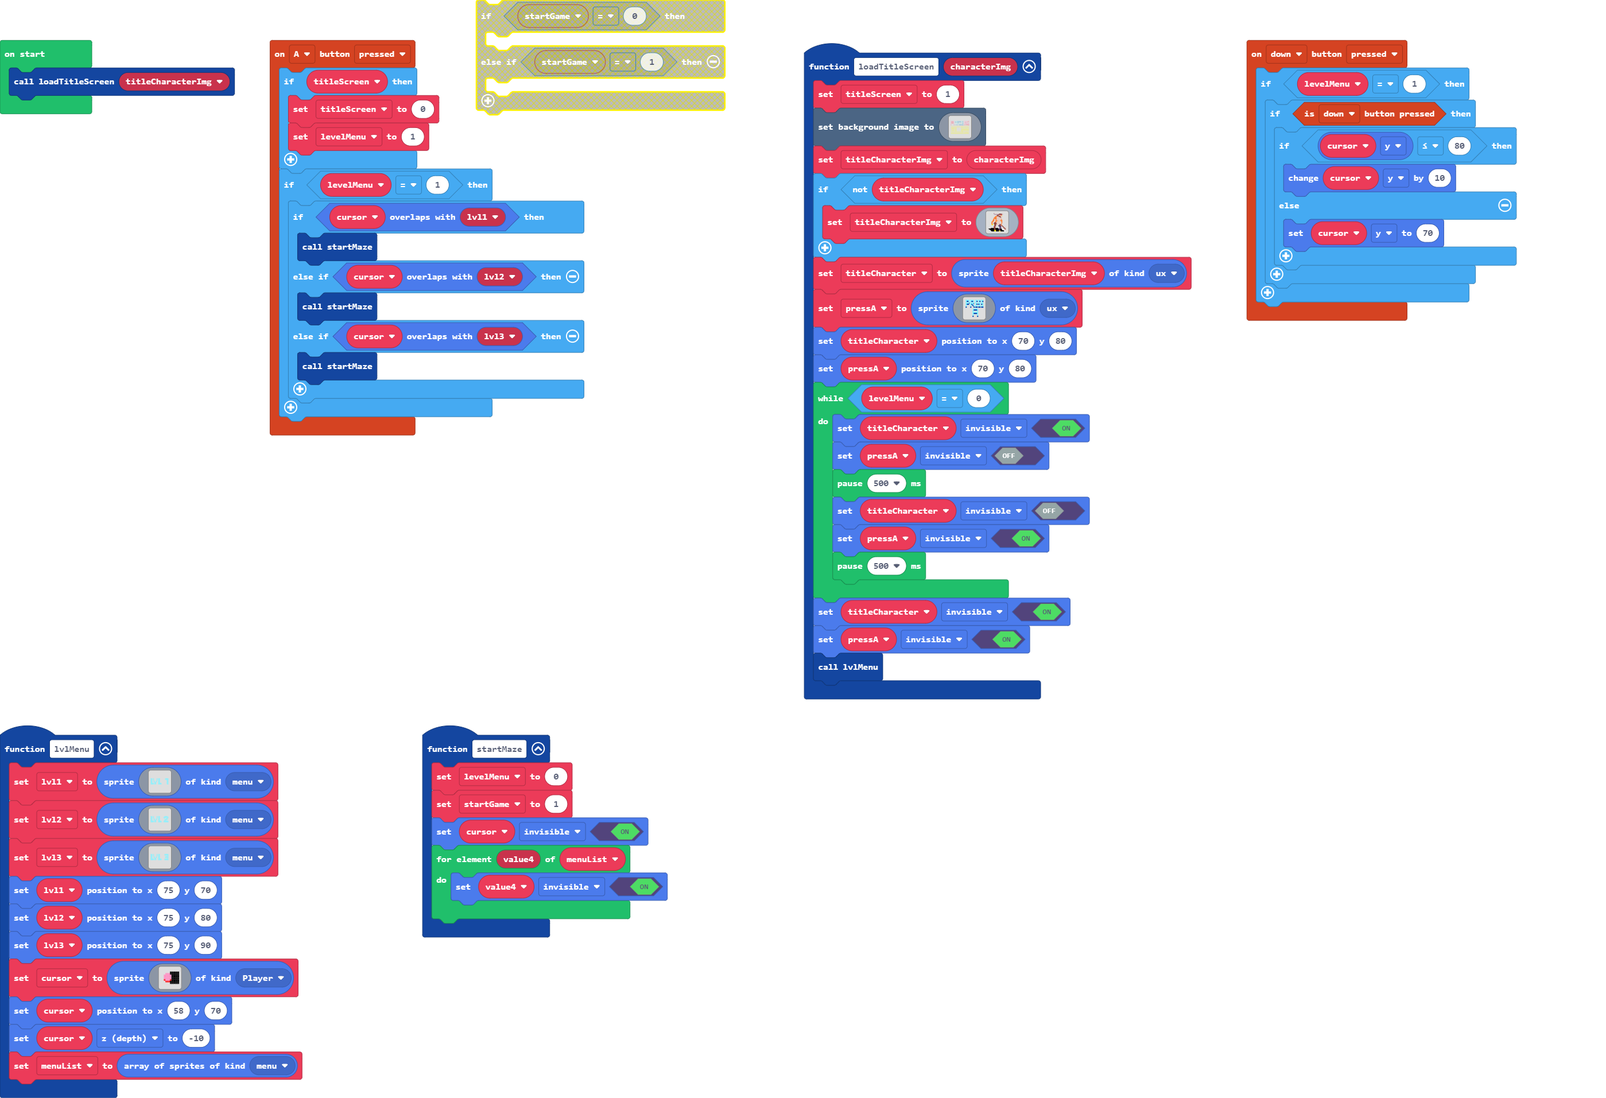
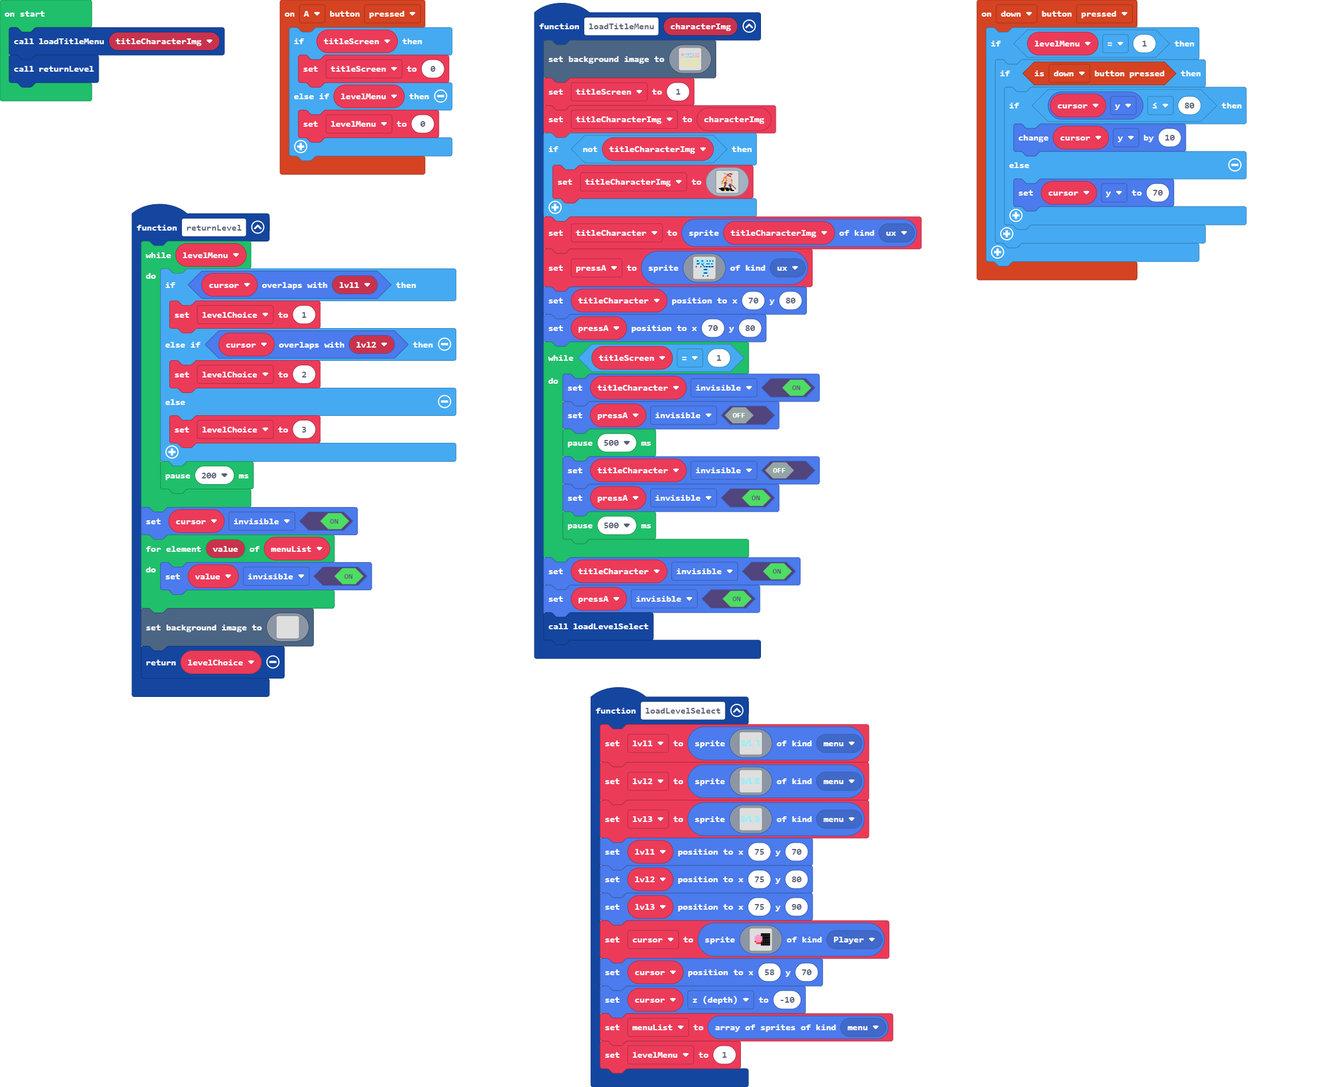
Standardized blocks for extension use

diff --git a/main.ts b/main.ts
@@ -18,8 +18,153 @@ namespace SpriteKind {
     export const menu = SpriteKind.create()
     export const boss = SpriteKind.create()
 }
-function loadTitleScreen (characterImg: Image) {
-    titleScreen = 1
+function returnLevel () {
+    while (levelMenu) {
+        if (cursor.overlapsWith(lvl1)) {
+            levelChoice = 1
+        } else if (cursor.overlapsWith(lvl2)) {
+            levelChoice = 2
+        } else {
+            levelChoice = 3
+        }
+        pause(200)
+    }
+    cursor.setFlag(SpriteFlag.Invisible, true)
+    for (let value of menuList) {
+        value.setFlag(SpriteFlag.Invisible, true)
+    }
+    scene.setBackgroundImage(img`
+        ................................................................................................................................................................
+        ................................................................................................................................................................
+        ................................................................................................................................................................
+        ................................................................................................................................................................
+        ................................................................................................................................................................
+        ................................................................................................................................................................
+        ................................................................................................................................................................
+        ................................................................................................................................................................
+        ................................................................................................................................................................
+        ................................................................................................................................................................
+        ................................................................................................................................................................
+        ................................................................................................................................................................
+        ................................................................................................................................................................
+        ................................................................................................................................................................
+        ................................................................................................................................................................
+        ................................................................................................................................................................
+        ................................................................................................................................................................
+        ................................................................................................................................................................
+        ................................................................................................................................................................
+        ................................................................................................................................................................
+        ................................................................................................................................................................
+        ................................................................................................................................................................
+        ................................................................................................................................................................
+        ................................................................................................................................................................
+        ................................................................................................................................................................
+        ................................................................................................................................................................
+        ................................................................................................................................................................
+        ................................................................................................................................................................
+        ................................................................................................................................................................
+        ................................................................................................................................................................
+        ................................................................................................................................................................
+        ................................................................................................................................................................
+        ................................................................................................................................................................
+        ................................................................................................................................................................
+        ................................................................................................................................................................
+        ................................................................................................................................................................
+        ................................................................................................................................................................
+        ................................................................................................................................................................
+        ................................................................................................................................................................
+        ................................................................................................................................................................
+        ................................................................................................................................................................
+        ................................................................................................................................................................
+        ................................................................................................................................................................
+        ................................................................................................................................................................
+        ................................................................................................................................................................
+        ................................................................................................................................................................
+        ................................................................................................................................................................
+        ................................................................................................................................................................
+        ................................................................................................................................................................
+        ................................................................................................................................................................
+        ................................................................................................................................................................
+        ................................................................................................................................................................
+        ................................................................................................................................................................
+        ................................................................................................................................................................
+        ................................................................................................................................................................
+        ................................................................................................................................................................
+        ................................................................................................................................................................
+        ................................................................................................................................................................
+        ................................................................................................................................................................
+        ................................................................................................................................................................
+        ................................................................................................................................................................
+        ................................................................................................................................................................
+        ................................................................................................................................................................
+        ................................................................................................................................................................
+        ................................................................................................................................................................
+        ................................................................................................................................................................
+        ................................................................................................................................................................
+        ................................................................................................................................................................
+        ................................................................................................................................................................
+        ................................................................................................................................................................
+        ................................................................................................................................................................
+        ................................................................................................................................................................
+        ................................................................................................................................................................
+        ................................................................................................................................................................
+        ................................................................................................................................................................
+        ................................................................................................................................................................
+        ................................................................................................................................................................
+        ................................................................................................................................................................
+        ................................................................................................................................................................
+        ................................................................................................................................................................
+        ................................................................................................................................................................
+        ................................................................................................................................................................
+        ................................................................................................................................................................
+        ................................................................................................................................................................
+        ................................................................................................................................................................
+        ................................................................................................................................................................
+        ................................................................................................................................................................
+        ................................................................................................................................................................
+        ................................................................................................................................................................
+        ................................................................................................................................................................
+        ................................................................................................................................................................
+        ................................................................................................................................................................
+        ................................................................................................................................................................
+        ................................................................................................................................................................
+        ................................................................................................................................................................
+        ................................................................................................................................................................
+        ................................................................................................................................................................
+        ................................................................................................................................................................
+        ................................................................................................................................................................
+        ................................................................................................................................................................
+        ................................................................................................................................................................
+        ................................................................................................................................................................
+        ................................................................................................................................................................
+        ................................................................................................................................................................
+        ................................................................................................................................................................
+        ................................................................................................................................................................
+        ................................................................................................................................................................
+        ................................................................................................................................................................
+        ................................................................................................................................................................
+        ................................................................................................................................................................
+        ................................................................................................................................................................
+        ................................................................................................................................................................
+        ................................................................................................................................................................
+        ................................................................................................................................................................
+        ................................................................................................................................................................
+        ................................................................................................................................................................
+        ................................................................................................................................................................
+        ................................................................................................................................................................
+        ................................................................................................................................................................
+        ................................................................................................................................................................
+        `)
+    return levelChoice
+}
+controller.A.onEvent(ControllerButtonEvent.Pressed, function () {
+    if (titleScreen) {
+        titleScreen = 0
+    } else if (levelMenu) {
+        levelMenu = 0
+    }
+})
+function loadTitleMenu (characterImg: Image) {
     scene.setBackgroundImage(img`
         ................................................................................................................................................................
         ................................................................................................................................................................
@@ -142,6 +287,7 @@ function loadTitleScreen (characterImg: Image) {
         5555555555555555555555555555555555555555555555555555555555555555555555555555555555555555555555555555555555555555555555555555555555555555555555555555555555555555
         ................................................................................................................................................................
         `)
+    titleScreen = 1
     titleCharacterImg = characterImg
     if (!(titleCharacterImg)) {
         titleCharacterImg = img`
@@ -216,7 +362,7 @@ function loadTitleScreen (characterImg: Image) {
         `, SpriteKind.ux)
     titleCharacter.setPosition(70, 80)
     pressA.setPosition(70, 80)
-    while (levelMenu == 0) {
+    while (titleScreen == 1) {
         titleCharacter.setFlag(SpriteFlag.Invisible, true)
         pressA.setFlag(SpriteFlag.Invisible, false)
         pause(500)
@@ -226,23 +372,8 @@ function loadTitleScreen (characterImg: Image) {
     }
     titleCharacter.setFlag(SpriteFlag.Invisible, true)
     pressA.setFlag(SpriteFlag.Invisible, true)
-    lvlMenu()
+    loadLevelSelect()
 }
-controller.A.onEvent(ControllerButtonEvent.Pressed, function () {
-    if (titleScreen) {
-        titleScreen = 0
-        levelMenu = 1
-    }
-    if (levelMenu == 1) {
-        if (cursor.overlapsWith(lvl1)) {
-            startMaze()
-        } else if (cursor.overlapsWith(lvl2)) {
-            startMaze()
-        } else if (cursor.overlapsWith(lvl3)) {
-            startMaze()
-        }
-    }
-})
 controller.down.onEvent(ControllerButtonEvent.Pressed, function () {
     if (levelMenu == 1) {
         if (controller.down.isPressed()) {
@@ -254,7 +385,7 @@ controller.down.onEvent(ControllerButtonEvent.Pressed, function () {
         }
     }
 })
-function lvlMenu () {
+function loadLevelSelect () {
     lvl1 = sprites.create(img`
         9 9 . 9 . . . . 9 . 9 9 . . . . . . . 9 9 9 9 . 
         9 9 . 9 . . . . 9 . 9 9 . . . . . . . 9 9 9 9 . 
@@ -301,24 +432,18 @@ function lvlMenu () {
     cursor.setPosition(58, 70)
     cursor.z = -10
     menuList = sprites.allOfKind(SpriteKind.menu)
+    levelMenu = 1
 }
-function startMaze () {
-    levelMenu = 0
-    startGame = 1
-    cursor.setFlag(SpriteFlag.Invisible, true)
-    for (let value4 of menuList) {
-        value4.setFlag(SpriteFlag.Invisible, true)
-    }
-}
-let startGame = 0
-let menuList: Sprite[] = []
 let lvl3: Sprite = null
+let pressA: Sprite = null
+let titleCharacter: Sprite = null
+let titleScreen = 0
+let menuList: Sprite[] = []
+let levelChoice = 0
 let lvl2: Sprite = null
 let lvl1: Sprite = null
 let cursor: Sprite = null
 let levelMenu = 0
-let pressA: Sprite = null
-let titleCharacter: Sprite = null
-let titleScreen = 0
 let titleCharacterImg: Image = null
-loadTitleScreen(titleCharacterImg)
+loadTitleMenu(titleCharacterImg)
+returnLevel()
